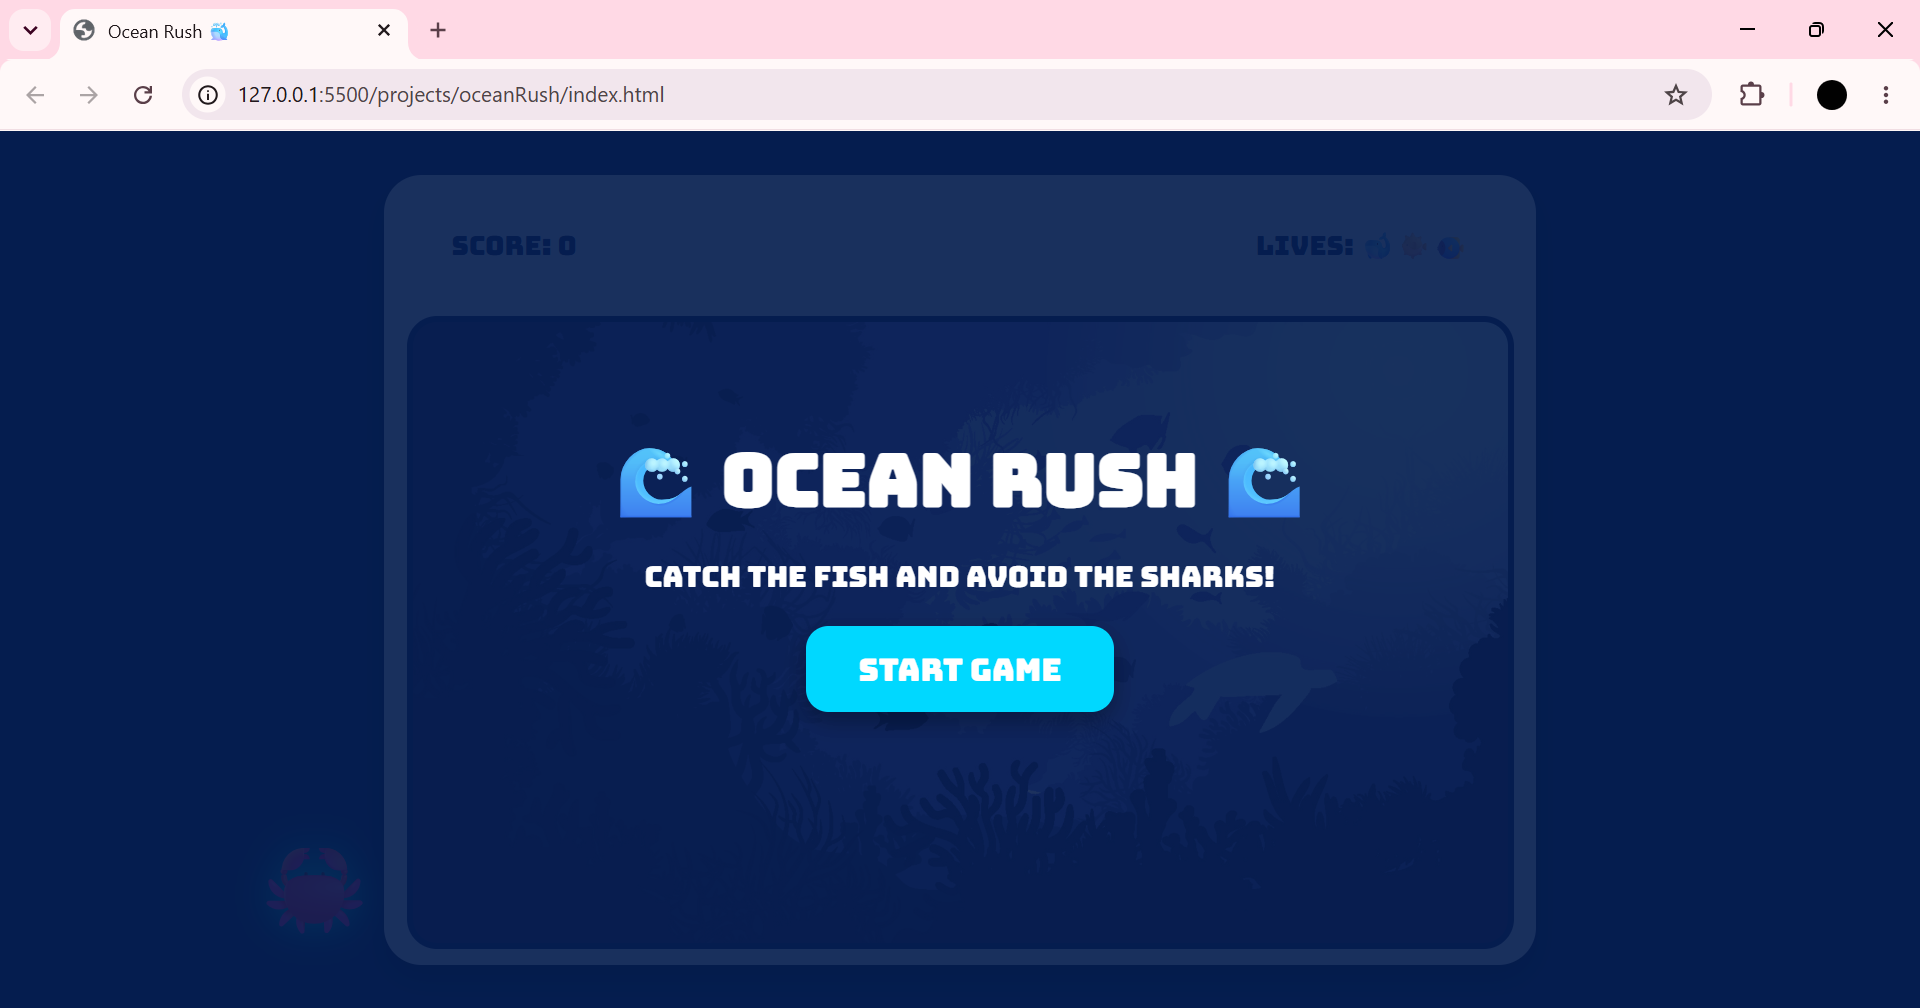
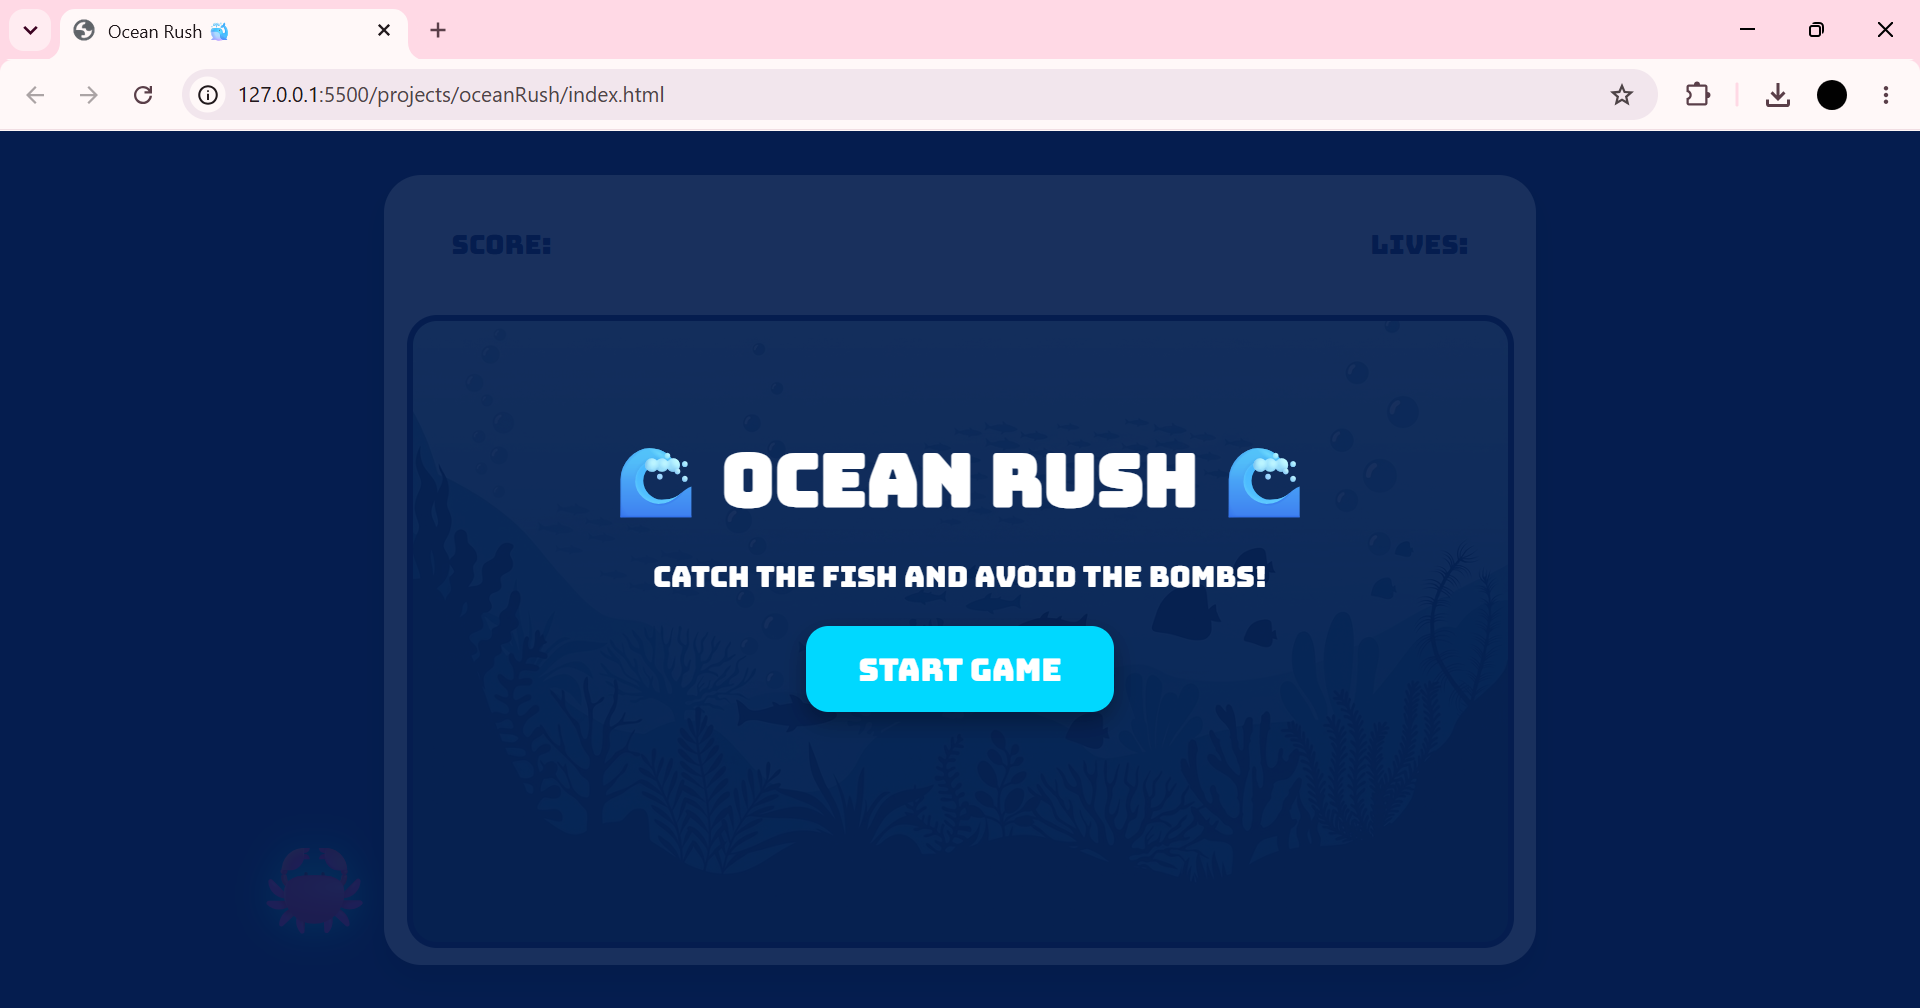
text fixed in html

Changed region(s): [[0.3125, 0.5536, 0.6875, 0.5843], [0.875, 0.0923, 0.9375, 0.123]]

diff --git a/index.html b/index.html
@@ -28,7 +28,7 @@
         <!-- Start Screen -->
         <div id="start-screen" class="overlay">
             <h1>🌊 Ocean Rush 🌊</h1>
-            <p>Catch the fish and avoid the sharks!</p>
+            <p>Catch the fish and avoid the bombs!</p>
             <button id="start-btn">Start Game</button>
         </div>
 